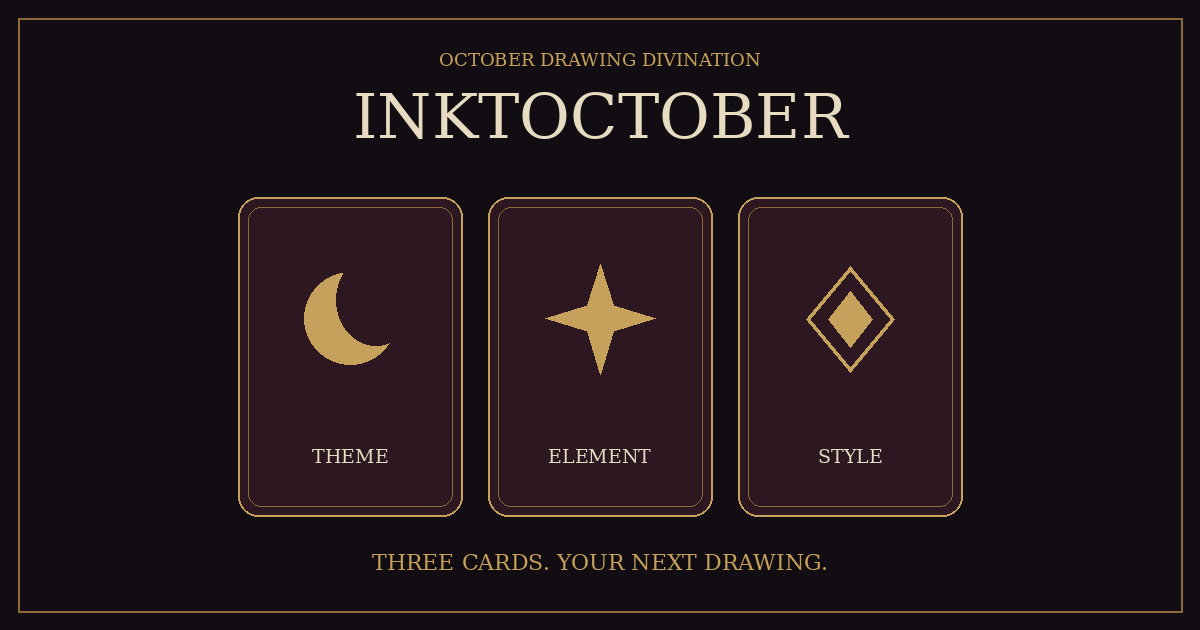
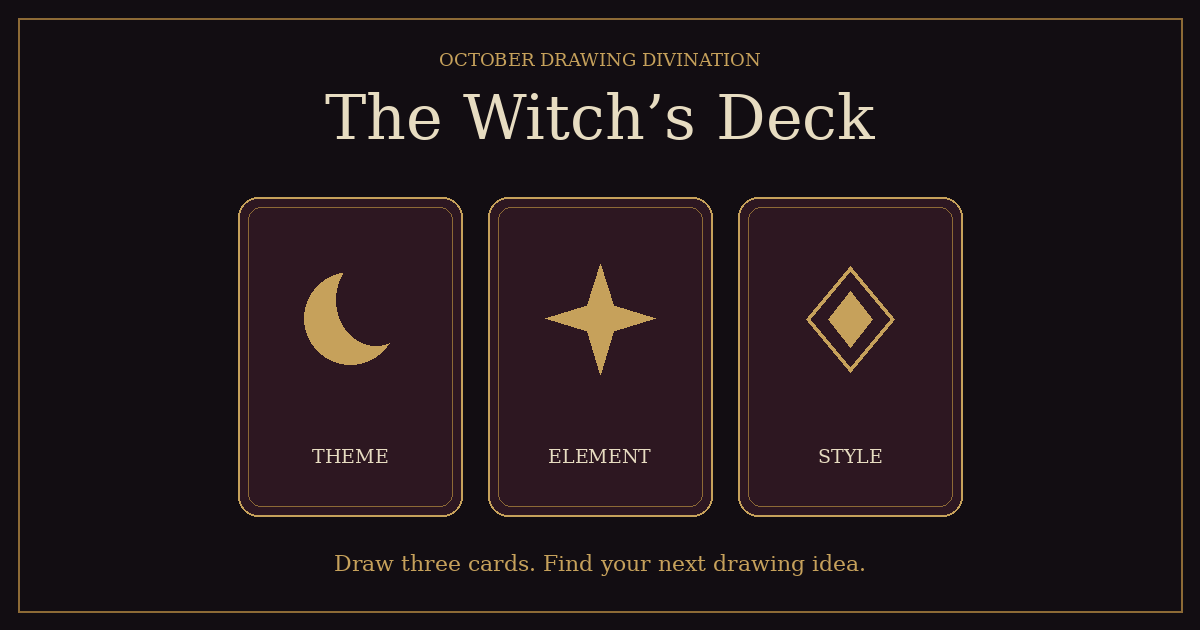
Rename to The Witch’s Deck

Changed region(s): [[0.2775, 0.1206, 0.74, 0.2413], [0.2775, 0.8746, 0.7092, 0.9048]]

diff --git a/index.html b/index.html
@@ -3,14 +3,14 @@
 <head>
 <meta charset="utf-8">
 <meta name="viewport" content="width=device-width, initial-scale=1">
-<title>INKTOCTOBER｜十月繪圖占卜</title>
+<title>The Witch’s Deck｜十月繪圖占卜</title>
 <meta name="description" content="每日翻開三張塔羅風格卡牌，抽出角色、附加元素與色彩。鎖定喜歡的牌，留下你的十月繪圖靈感。">
 <meta name="theme-color" content="#120d12">
 <link rel="icon" type="image/svg+xml" href="favicon.svg">
 <meta property="og:type" content="website">
 <meta property="og:locale" content="zh_TW">
-<meta property="og:title" content="INKTOCTOBER｜十月繪圖占卜">
-<meta property="og:description" content="每日翻開三張牌，讓命運替你挑選今天的繪圖靈感。">
+<meta property="og:title" content="The Witch’s Deck｜十月繪圖占卜">
+<meta property="og:description" content="Draw three cards. Find your next drawing idea. 翻開三張牌，找到下一張畫的靈感。">
 <link rel="canonical" href="https://ruruwu.github.io/inktober_happyhalloween_ver/">
 <meta property="og:url" content="https://ruruwu.github.io/inktober_happyhalloween_ver/">
 <meta property="og:image" content="https://ruruwu.github.io/inktober_happyhalloween_ver/og-preview.png">
@@ -18,8 +18,8 @@
 <meta property="og:image:height" content="630">
 <meta property="og:image:alt" content="深酒紅與舊金色的三張塔羅風格卡牌">
 <meta name="twitter:card" content="summary_large_image">
-<meta name="twitter:title" content="INKTOCTOBER｜十月繪圖占卜">
-<meta name="twitter:description" content="每日翻開三張牌，讓命運替你挑選今天的繪圖靈感。">
+<meta name="twitter:title" content="The Witch’s Deck｜十月繪圖占卜">
+<meta name="twitter:description" content="Draw three cards. Find your next drawing idea. 翻開三張牌，找到下一張畫的靈感。">
 <meta name="twitter:image" content="https://ruruwu.github.io/inktober_happyhalloween_ver/og-preview.png">
 <style>
 :root {
@@ -131,8 +131,8 @@ footer{text-align:center;margin-top:24px;color:var(--muted);font-size:12px}a{col
 <div class="wrap">
 <header>
   <div class="eyebrow">October Drawing Divination</div>
-  <h1>INKTOCTOBER</h1>
-  <div class="subtitle">每日翻開三張牌，決定今天的角色、元素與色彩。</div>
+  <h1>The Witch’s Deck</h1>
+  <div class="subtitle">Draw three cards. Find your next drawing idea.<br>翻開三張牌，找到下一張畫的靈感。</div>
   <div class="datebar">☾ <span id="selectedDate"></span> ✦</div>
 </header>
 
@@ -162,7 +162,7 @@ footer{text-align:center;margin-top:24px;color:var(--muted);font-size:12px}a{col
 <p>紀錄只存放在目前的瀏覽器，不會同步到其他裝置。清除網站資料或使用無痕模式，可能讓紀錄消失。本頁沒有登入、分析追蹤或資料上傳功能。</p>
 <button id="clearBtn" type="button">清除我的抽卡紀錄</button>
 </details>
-<footer>INKTOCTOBER · v0.3.1 · <a href="https://github.com/ruruwu" target="_blank" rel="noopener noreferrer">作者 GitHub</a></footer>
+<footer>The Witch’s Deck · v0.3.1 · <a href="https://github.com/ruruwu" target="_blank" rel="noopener noreferrer">作者 GitHub</a></footer>
 </div>
 <div class="toast" id="toast" role="status" aria-live="polite">已複製</div>
 

diff --git a/README.md b/README.md
@@ -1,4 +1,8 @@
-# INKTOCTOBER｜十月繪圖占卜
+# The Witch’s Deck｜十月繪圖占卜
+
+*Draw three cards. Find your next drawing idea.*
+
+翻開三張牌，找到下一張畫的靈感。
 
 每日翻開三張塔羅風格卡牌，從主題／角色、附加元素與色彩／風格三個卡池中，各抽一張作為繪圖靈感。
 
